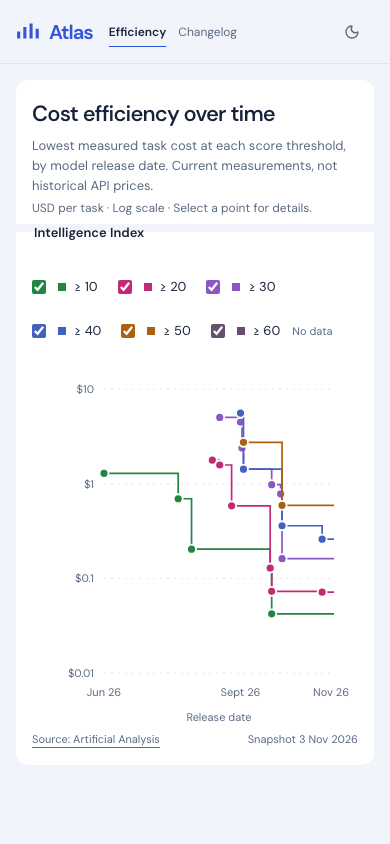
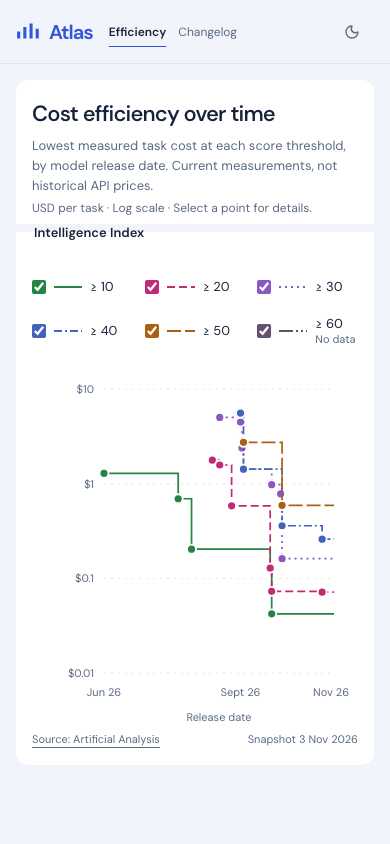
fix: identify efficiency thresholds without relying on color

diff --git a/src/Efficiency.tsx b/src/Efficiency.tsx
@@ -3,7 +3,7 @@ import snapshot from 'virtual:benchmarks';
 import { SiteHeader } from './SiteHeader';
 import { costMultiplier, efficiencySeries, elapsedTimeSinceFirstRecord } from './efficiency-data';
 import { readEfficiencySettings, writeEfficiencySettings } from './efficiency-state';
-import { EfficiencyChart, efficiencyColors, recordKey } from './EfficiencyChart';
+import { EfficiencyChart, efficiencyColors, efficiencyPatterns, recordKey } from './EfficiencyChart';
 import { ConfigurationDetails } from './charts/ConfigurationDetails';
 import { resolveChartInteraction } from './chart-interactions';
 import { formatUtcDate } from './formatDate';
@@ -65,9 +65,9 @@ export function Efficiency() {
         <aside aria-label="Efficiency controls" className="min-h-0 min-w-0 overflow-y-auto pt-2 mobile:contents">
           <fieldset className="efficiency-filters m-0 min-w-0 border-0 p-0">
             <legend className="mb-3 text-[13px] font-semibold">Intelligence Index</legend>
-            <div className="flex flex-col gap-1 mobile:flex-row mobile:flex-wrap mobile:gap-x-5 mobile:gap-y-0">
+            <div className="efficiency-thresholds flex flex-col gap-1">
               {lines.map((line) => (
-                <label key={line.threshold} className="flex min-h-11 cursor-pointer items-center gap-3 text-[13px]">
+                <label key={line.threshold} className="flex min-h-11 cursor-pointer items-center gap-2 text-[13px]">
                   <input
                     type="checkbox"
                     checked={settings.thresholds.includes(line.threshold)}
@@ -81,8 +81,13 @@ export function Efficiency() {
                     className="m-0 size-3.5 shrink-0"
                     style={{ accentColor: efficiencyColors[line.threshold] }}
                   />
-                  <span className="inline-flex items-center gap-2"><span aria-hidden="true" className="size-2" style={{ background: efficiencyColors[line.threshold] }} />≥ {line.threshold}</span>
-                  {!line.points.length && <span className="text-[11px] text-fg-2">No data</span>}
+                  <svg aria-hidden="true" width="28" height="12" viewBox="0 0 28 12" className="shrink-0" style={{ color: efficiencyColors[line.threshold] }}>
+                    <line x1="0" x2="28" y1="6" y2="6" stroke="currentColor" strokeWidth="2" strokeDasharray={efficiencyPatterns[line.threshold]} />
+                  </svg>
+                  <span className="flex flex-col">
+                    <span>≥ {line.threshold}</span>
+                    {!line.points.length && <span className="whitespace-nowrap text-[11px] text-fg-2">No data</span>}
+                  </span>
                 </label>
               ))}
             </div>

diff --git a/src/EfficiencyChart.tsx b/src/EfficiencyChart.tsx
@@ -18,6 +18,16 @@ export const efficiencyColors = {
   60: 'light-dark(#65516f, #ccb6d9)',
 } as const;
 
+// Match the legend samples so thresholds remain identifiable without color.
+export const efficiencyPatterns = {
+  10: undefined,
+  20: '8 4',
+  30: '2 4',
+  40: '8 3 2 3',
+  50: '14 4',
+  60: '14 3 2 3 2 3',
+} as const;
+
 export type EfficiencyRecord = { threshold: EfficiencyLine['threshold']; point: EfficiencyPoint };
 
 export function recordKey({ threshold, point }: EfficiencyRecord) {
@@ -94,7 +104,7 @@ export function EfficiencyChart({ lines, selected, fetchedAt, active, highlighte
           }}
         >
           <desc id={`${id}-description`}>
-            Each line shows records for an intelligence threshold. Focus a point for details, press Enter or Space to pin it, and Escape to clear the selection.
+            Each line shows records for an intelligence threshold. Line patterns match the threshold controls. Focus a point for details, press Enter or Space to pin it, and Escape to clear the selection.
           </desc>
           <rect className="chart-background" width={size.width} height={size.height} fill="var(--panel)" />
           <g aria-hidden="true" fill="var(--fg-2)">
@@ -113,7 +123,7 @@ export function EfficiencyChart({ lines, selected, fetchedAt, active, highlighte
           </g>
           {selected.map((line) => (
             <g key={line.threshold} style={{ color: efficiencyColors[line.threshold], opacity: highlightedThreshold !== null && highlightedThreshold !== line.threshold ? 0.65 : 1 }}>
-              <path d={geometry.path(line.points)} fill="none" stroke="currentColor" strokeWidth={highlightedThreshold === line.threshold ? 3 : 1.7} aria-hidden="true" />
+              <path d={geometry.path(line.points)} fill="none" stroke="currentColor" strokeDasharray={efficiencyPatterns[line.threshold]} strokeWidth={highlightedThreshold === line.threshold ? 3 : 1.7} aria-hidden="true" />
               {line.points.map((point) => {
                 const record = { threshold: line.threshold, point };
                 const key = recordKey(record);

diff --git a/tests/browser/ui-quality.spec.ts b/tests/browser/ui-quality.spec.ts
@@ -141,3 +141,16 @@ test('low subscription price ticks are distinct and have room for their precisio
   expect(labels.some((label) => label.text === '$0.0005')).toBe(true);
   for (let index = 1; index < labels.length; index++) expect(labels[index]!.left - labels[index - 1]!.right).toBeGreaterThanOrEqual(4);
 });
+
+
+test('efficiency line patterns identify thresholds without depending only on color', async ({ page }) => {
+  await page.goto('/?page=efficiency');
+  await expect(page.locator('.efficiency-plot svg[role=group]')).toBeVisible();
+  const legends = await page.locator('.efficiency-thresholds label').evaluateAll((labels) => labels.map((label) => ({
+    threshold: label.querySelector('input')!.getAttribute('aria-label')!.match(/(\d+)$/)![1],
+    pattern: label.querySelector('line')!.getAttribute('stroke-dasharray') ?? 'solid',
+  })));
+  expect(new Set(legends.map((legend) => legend.pattern)).size).toBe(6);
+  const plotted = await page.locator('.efficiency-plot svg > g > path').evaluateAll((paths) => paths.map((path) => path.getAttribute('stroke-dasharray') ?? 'solid'));
+  expect(plotted).toEqual(legends.map((legend) => legend.pattern));
+});

diff --git a/src/styles.css b/src/styles.css
@@ -379,3 +379,10 @@
 @media (width <= 900px) { .dense-ranking .measurement-table {
   max-height: 600px;
 } }
+
+@media (width <= 900px) {
+  .efficiency-thresholds { display:grid; grid-template-columns:repeat(3,minmax(0,1fr)); gap:0 12px; }
+}
+@media (width < 380px) {
+  .efficiency-thresholds { grid-template-columns:repeat(2,minmax(0,1fr)); }
+}

diff --git a/README.md b/README.md
@@ -69,7 +69,7 @@ Null measurements mean unmeasured or unavailable. They are omitted from the rele
 
 The Efficiency page reproduces the [AA Trends cost-efficiency chart](https://artificialanalysis.ai/trends#efficiency) from the same benchmark snapshot. For thresholds of 10, 20, 30, 40, 50, and 60, it retains each new lowest task cost among qualifying configurations, ordered by release date. It uses the full catalogue, independently of the benchmark model picker. Scores remain unrounded when testing thresholds. Missing and non-positive values stay absent, matching AA's filtering for this chart. Atlas keeps only the best qualifying configuration per day, with stable ID ties; AA can show intermediate records at the same date depending on input order.
 
-These are current measurements arranged by release date, not historical API prices. Data refreshes can revise earlier steps. The page shows the snapshot date and links to AA's source. Cost uses a logarithmic axis. Threshold selections are stored in the URL. Points support hover details, keyboard focus, Enter or Space to pin, and Escape to clear the selection. Efficiency reuses the scatter plot's model card below the threshold filters on desktop and below the plot on phones, with threshold and release-date context in its footer. The phone layout shows the heading, threshold filters, and chart first. Details appear below the chart only when a record is active. Pointer selection uses the nearest visible marker when hit areas overlap. Hover previews disappear on leaving the point; pinned records stay selected while other points are hovered. Records use the same circular markers as the scatter plots, without hover guide lines or series dimming. The views share the same interaction resolver and keyboard pin handlers. When thresholds share a point, click to pin it, then use the card's threshold selector to choose an overlapping record. The underlying calculation, URL handling, and chart geometry have focused tests.
+These are current measurements arranged by release date, not historical API prices. Data refreshes can revise earlier steps. The page shows the snapshot date and links to AA's source. Cost uses a logarithmic axis. Threshold selections are stored in the URL. Points support hover details, keyboard focus, Enter or Space to pin, and Escape to clear the selection. Efficiency reuses the scatter plot's model card below the threshold filters on desktop and below the plot on phones, with threshold and release-date context in its footer. The phone layout shows the heading, threshold filters, and chart first. Details appear below the chart only when a record is active. Pointer selection uses the nearest visible marker when hit areas overlap. Hover previews disappear on leaving the point; pinned records stay selected while other points are hovered. Records use circular markers. Each threshold has a distinct line pattern repeated in its filter legend so simultaneous series can be compared without relying on color. The views share the same interaction resolver and keyboard pin handlers. When thresholds share a point, click to pin it, then use the card's threshold selector to choose an overlapping record. The underlying calculation, URL handling, and chart geometry have focused tests.
 
 The Coding agents scatter chart uses a separate [Artificial Analysis Coding Agent Index v2.0](https://artificialanalysis.ai/agents/coding-agents) snapshot in `src/data/coding-agents.json`, captured on 23 October 2026. Its 24 configurations retain AA's source IDs, full configuration labels, fractional index scores and API costs at source precision. Chart scores multiply the source fraction by 100. The [v2.0 methodology](https://artificialanalysis.ai/methodology/coding-agents-benchmarking) averages FrontierCode v1.1, Terminal-Bench 4.0 and SWE-Atlas-QnA-AA. Cost is the average API cost per task, including applicable caching charges and discounts, rather than subscription pricing.
 

diff --git a/docs/ui-quality/category-review.md b/docs/ui-quality/category-review.md
@@ -1,0 +1,27 @@
+# Category review
+
+The user rejected the chart dropdown and requested at least 8/10 in every category from every council member. The dropdown is now replaced with visible desktop navigation and phone category/chart rows.
+
+## First category pass
+
+| Category | DeepSeek | GPT Sol | Kimi | GPT-6.1 Terra |
+| --- | --- | --- | --- | --- |
+| Navigation and discovery | pending | 8.5 | pending | 8.5 |
+| Hierarchy and typography | pending | 8.2 | pending | 8 |
+| Chart/data readability | pending | 8.0 | pending | 7.5 |
+| Controls and feedback | pending | 8.2 | pending | 8 |
+| Mobile responsiveness | pending | 8.2 | pending | 8 |
+| Accessibility | pending | 7.5 | pending | 8 |
+| Light/dark consistency | pending | 8.3 | pending | 8 |
+
+Terra's blocker was duplicate rounded subscription price ticks. Commit `134e3d6` preserves small costs with three significant digits and spaces labels to prevent overlap. Unit tests cover low-cost precision; the browser test checks distinct rendered labels and their actual separation. The subscription screenshot has been refreshed. Terra's category recheck is pending.
+
+Latest validation: type checking, 181 unit tests, production build, and 11 production Chromium tests pass. Scores reflect reviewer observations, not a comprehensive accessibility certification; Terra did not independently test a screen reader or every view in both themes.
+
+## Readability recheck
+
+Terra rechecked `134e3d6` and scored navigation 8.5 and every other category 8, with no remaining blocker. The assessment remains limited to its inspected source and screenshots, not a comprehensive screen-reader certification.
+
+## Non-color series identification
+
+Sol's first category pass found Efficiency depended on color to identify simultaneous threshold lines. Thresholds now have distinct dash patterns repeated in their checkbox legend. A production browser test checks all six patterns are distinct and match the rendered chart paths. Additional captures cover desktop and phone dark modes for both Efficiency and Changelog. Sol's category recheck is pending.
